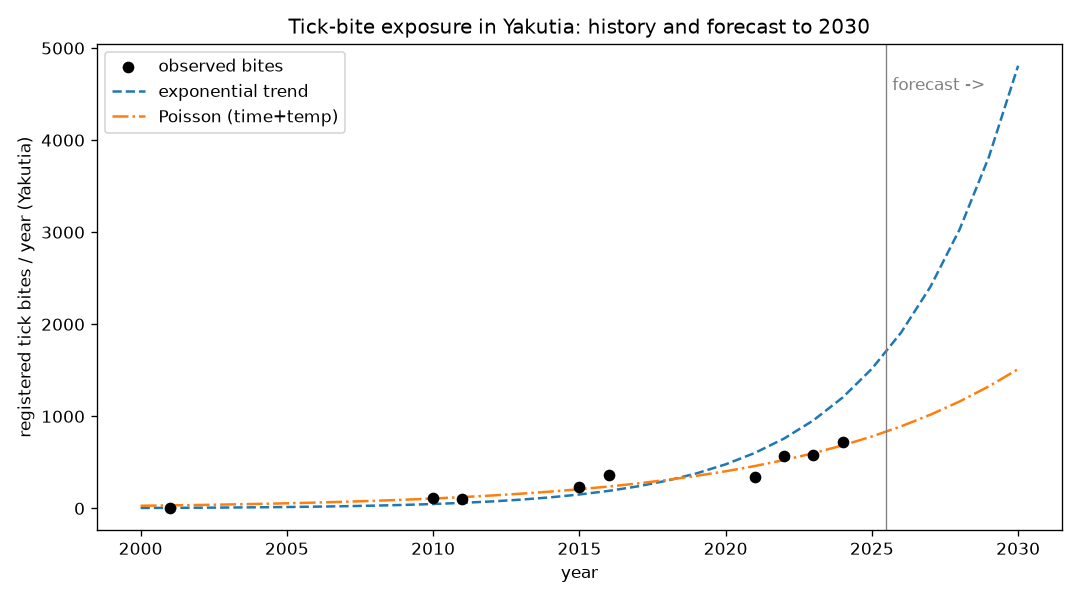
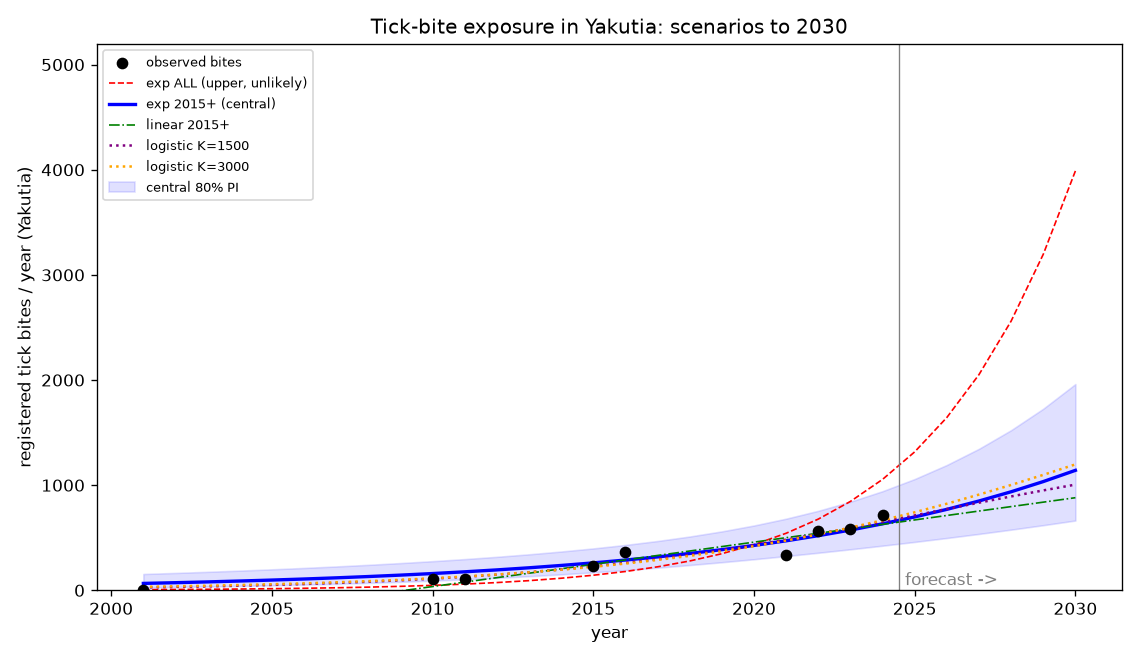
Fix forecast: remove collinear temp GLM, separate growth regimes, add scenarios
Critical corrections after review:
- The previous Poisson "with temperature" was invalid: temp_anomaly_modeled_c is
  a linear function of t_index (0.06*t), so it is perfectly collinear with the
  time trend and cannot identify a temperature effect. Removed.
- The exponential-on-all-data (~4800/yr by 2030) extrapolated the early
  colonization spike (2->109) and overstated the future. Now split into an
  established-growth fit (2015+, ~+10%/yr) plus saturating logistic scenarios.
- forecast_model.py rewritten as scenario bracketing with an 80% prediction
  interval. 2030 central ~1140 bites/yr [660-1960]; plausible 700-2000;
  ~3990 kept only as an explicit unlikely upper bound.
- README forecast section and plot updated accordingly.

Claude-Session: https://claude.ai/code/session_01Euhj2T9aukNUPxMg9C63Rc

Changed region(s): [[0.0, 0.03, 1.0, 0.99], [0.825, 0.12, 0.8861, 0.15], [0.8861, 0.36, 0.9167, 0.39]]

diff --git a/data/tick-borne-encephalitis-yakutia/forecast_model.py b/data/tick-borne-encephalitis-yakutia/forecast_model.py
@@ -1,105 +1,148 @@
 #!/usr/bin/env python3
 """
-Starter forecast model for tick spread / TBE exposure in Yakutia up to 2030.
+Forecast of tick-bite exposure in Yakutia to 2030 -- scenario approach.
 
-Target: tick_bites_registered (republic-wide registered tick bites) - used as a
-proxy for tick abundance/exposure. Confirmed TBE clinical cases are too sparse
-(0-1/year) to fit a standalone time-series model, so we forecast exposure and
-discuss disease risk as a small fraction of it (see README).
+WHY SCENARIOS, NOT ONE MODEL
+----------------------------
+We have only ~8 reliable yearly points, a metric that mixes seasons, and one
+disputed year. A single point forecast would be false precision. The dominant
+question is which growth REGIME continues:
 
-Two simple, low-data-appropriate models are fit (only ~10 reliable points):
-  1. Exponential trend in time  (log-linear OLS)
-  2. Poisson GLM with predictors: time index + modeled temperature anomaly
+  * 2001->2010 was an explosive COLONIZATION phase (2 -> 109 bites). Fitting an
+    exponential across that spike gives ~+26%/yr and ~4800 bites by 2030. This
+    almost certainly OVERSTATES the future: tick populations saturate (limited
+    suitable habitat and human exposure), and recent years already show the
+    growth decelerating (2022->2023 was nearly flat).
+  * 2015 onward reflects an ESTABLISHED population. Its growth is ~13%/yr, which
+    lands near ~1500 by 2030.
 
-Then both are extrapolated to 2030 using the predictor rows already present in
-model_ready.csv (is_forecast == 1).
+So we report a bracket and recommend the established-growth / saturating range,
+not the colonization extrapolation.
 
-Dependencies: pandas, numpy, statsmodels (optional matplotlib for the plot).
+NOTE ON TEMPERATURE: model_ready.csv's temp_anomaly_modeled_c is a deterministic
+linear function of time (0.06*t_index), so it is perfectly collinear with the
+time trend and CANNOT be used as an independent predictor. A real temperature
+EFFECT needs an observed year-by-year station series (see README "what to add").
+
+Deps: numpy, pandas; optional scipy (logistic + intervals), matplotlib (plot).
 Run: python forecast_model.py
 """
 import numpy as np
 import pandas as pd
 
 CSV = "model_ready.csv"
+HORIZON = 2030
+FORECAST_YEARS = np.arange(2025, HORIZON + 1)
 
 
-def load():
-    df = pd.read_csv(CSV)
-    return df
+def observed(df):
+    o = df.dropna(subset=["tick_bites_registered"]).copy()
+    o["tick_bites_registered"] = o["tick_bites_registered"].astype(float)
+    return o
 
 
-def fit_exponential(df):
-    """log(bites) = a + b*t  ->  bites = exp(a) * exp(b*t)."""
-    obs = df.dropna(subset=["tick_bites_registered"]).copy()
-    # exclude the 'conflicting' year-attribution point from the fit, keep for plotting
-    fit = obs[obs["target_quality"] != "conflicting"]
-    x = fit["t_index"].to_numpy(float)
-    y = np.log(fit["tick_bites_registered"].to_numpy(float))
-    b, a = np.polyfit(x, y, 1)
-    yhat = np.exp(a + b * df["t_index"].to_numpy(float))
-    doubling = np.log(2) / b
-    print(f"[Exponential] growth rate b = {b:.3f}/yr "
-          f"(~{np.exp(b) - 1:+.1%}/yr, doubling time {doubling:.1f} yr)")
-    return yhat
+def loglinear(o, label):
+    """Fit log(y)=a+b*t. Return (predict_fn, b)."""
+    t = o["t_index"].to_numpy(float)
+    y = np.log(o["tick_bites_registered"].to_numpy(float))
+    b, a = np.polyfit(t, y, 1)
+    cagr = np.exp(b) - 1
+    print(f"[{label}] n={len(o)}  growth={cagr:+.1%}/yr  doubling={np.log(2)/b:.1f}yr")
+    return (lambda tt: np.exp(a + b * np.asarray(tt, float))), a, b, t, y
 
 
-def fit_poisson(df):
-    """Poisson GLM: bites ~ t_index + temp_anomaly_modeled_c."""
+def loglinear_PI(a, b, t, y, t_new, level=0.80):
+    """80% prediction interval for a new point on the log-linear fit."""
+    n = len(t)
+    resid = y - (a + b * t)
+    s = np.sqrt(np.sum(resid**2) / (n - 2))
+    tbar, Sxx = t.mean(), np.sum((t - t.mean())**2)
+    se = s * np.sqrt(1 + 1/n + (t_new - tbar)**2 / Sxx)
     try:
-        import statsmodels.api as sm
+        from scipy.stats import t as tdist
+        crit = tdist.ppf(0.5 + level/2, n - 2)
     except ImportError:
-        print("[Poisson] statsmodels not installed - skipping")
+        crit = 1.28  # ~80% normal approx
+    center = a + b * t_new
+    return np.exp(center - crit*se), np.exp(center + crit*se)
+
+
+def logistic_fixedK(o, K):
+    """y = K/(1+exp(-r*(t-t0))) with K FIXED (a scenario ceiling assumption)."""
+    t = o["t_index"].to_numpy(float)
+    y = o["tick_bites_registered"].to_numpy(float)
+    try:
+        from scipy.optimize import curve_fit
+        f = lambda tt, r, t0: K / (1 + np.exp(-r * (tt - t0)))
+        (r, t0), _ = curve_fit(f, t, y, p0=[0.3, 20], maxfev=10000)
+        return lambda tt: K / (1 + np.exp(-r * (np.asarray(tt, float) - t0)))
+    except Exception as e:
+        print(f"  (logistic K={K} skipped: {e})")
         return None
-    obs = df.dropna(subset=["tick_bites_registered"]).copy()
-    fit = obs[obs["target_quality"] != "conflicting"]
-    X = sm.add_constant(fit[["t_index", "temp_anomaly_modeled_c"]].astype(float))
-    model = sm.GLM(fit["tick_bites_registered"].astype(float), X,
-                   family=sm.families.Poisson()).fit()
-    Xall = sm.add_constant(df[["t_index", "temp_anomaly_modeled_c"]].astype(float),
-                           has_constant="add")
-    print("\n[Poisson GLM] coefficients:")
-    print(model.params.to_string())
-    return model.predict(Xall)
 
 
 def main():
-    df = load()
-    df["exp_pred"] = fit_exponential(df)
-    poi = fit_poisson(df)
-    if poi is not None:
-        df["poisson_pred"] = poi
+    df = pd.read_csv(CSV)
+    o_all = observed(df)                       # 2001..2024 (incl disputed 2024)
+    o_rec = o_all[o_all["year"] >= 2015]       # established-population era
 
-    cols = ["year", "tick_bites_registered", "exp_pred"]
-    if "poisson_pred" in df:
-        cols.append("poisson_pred")
-    out = df[df["year"] >= 2021][cols].round(0)
-    print("\n--- Observed vs forecast (2021-2030) ---")
-    print(out.to_string(index=False))
+    print("Observed points used:")
+    print(o_all[["year", "tick_bites_registered", "target_quality"]]
+          .to_string(index=False), "\n")
 
-    horizon = df[df["year"] == 2030].iloc[0]
-    print(f"\n2030 forecast (exponential): "
-          f"~{horizon['exp_pred']:.0f} registered bites/year")
-    if "poisson_pred" in df:
-        print(f"2030 forecast (Poisson+temp): "
-              f"~{horizon['poisson_pred']:.0f} registered bites/year")
+    f_all, *_ = loglinear(o_all, "exp ALL (colonization extrapolated - UPPER)")
+    f_rec, a, b, t, y = loglinear(o_rec, "exp 2015+ (established growth - CENTRAL)")
+
+    # linear trend on recent data
+    lb, la = np.polyfit(o_rec["t_index"], o_rec["tick_bites_registered"], 1)
+    f_lin = lambda tt: la + lb * np.asarray(tt, float)
+    print(f"[linear 2015+] slope={lb:+.0f} bites/yr")
+
+    f_logL = logistic_fixedK(o_all, 1500)
+    f_logH = logistic_fixedK(o_all, 3000)
+
+    ti = (FORECAST_YEARS - 2000).astype(float)
+    table = pd.DataFrame({"year": FORECAST_YEARS})
+    table["exp_ALL_upper"] = f_all(ti).round(0)
+    table["exp_2015+_central"] = f_rec(ti).round(0)
+    table["linear_2015+"] = f_lin(ti).round(0)
+    if f_logL: table["logistic_K1500"] = f_logL(ti).round(0)
+    if f_logH: table["logistic_K3000"] = f_logH(ti).round(0)
+    lo, hi = loglinear_PI(a, b, t, y, 30.0)
+    print("\n--- Forecast scenarios ---")
+    print(table.to_string(index=False))
+
+    c = f_rec(30.0)
+    print(f"\n2030 SUMMARY")
+    print(f"  Central (established exp 2015+): ~{c:.0f} bites/yr "
+          f"[80% PI {lo:.0f}-{hi:.0f}]")
+    print(f"  Plausible range across scenarios: "
+          f"~{min(f_lin(30.0), (f_logL(30.0) if f_logL else c)):.0f}"
+          f" - ~{f_logH(30.0) if f_logH else c:.0f} bites/yr")
+    print(f"  Upper/unlikely (colonization extrapolated): ~{f_all(30.0):.0f} bites/yr")
 
     try:
-        import matplotlib
-        matplotlib.use("Agg")
+        import matplotlib; matplotlib.use("Agg")
         import matplotlib.pyplot as plt
-        plt.figure(figsize=(9, 5))
-        obs = df.dropna(subset=["tick_bites_registered"])
-        plt.scatter(obs["year"], obs["tick_bites_registered"],
-                    color="k", zorder=3, label="observed bites")
-        plt.plot(df["year"], df["exp_pred"], "--", label="exponential trend")
-        if "poisson_pred" in df:
-            plt.plot(df["year"], df["poisson_pred"], "-.",
-                     label="Poisson (time+temp)")
-        plt.axvline(2025.5, color="grey", lw=0.8)
-        plt.text(2025.7, plt.ylim()[1] * 0.9, "forecast ->", color="grey")
-        plt.xlabel("year"); plt.ylabel("registered tick bites / year (Yakutia)")
-        plt.title("Tick-bite exposure in Yakutia: history and forecast to 2030")
-        plt.legend(); plt.tight_layout()
+        yrs = np.arange(2001, HORIZON + 1); tt = (yrs - 2000).astype(float)
+        plt.figure(figsize=(9.5, 5.5))
+        plt.scatter(o_all["year"], o_all["tick_bites_registered"], color="k",
+                    zorder=5, label="observed bites")
+        plt.plot(yrs, f_all(tt), "r--", lw=1, label="exp ALL (upper, unlikely)")
+        plt.plot(yrs, f_rec(tt), "b-", lw=2, label="exp 2015+ (central)")
+        plt.plot(yrs, f_lin(tt), "g-.", lw=1, label="linear 2015+")
+        if f_logL: plt.plot(yrs, f_logL(tt), color="purple", ls=":", label="logistic K=1500")
+        if f_logH: plt.plot(yrs, f_logH(tt), color="orange", ls=":", label="logistic K=3000")
+        # 80% PI band around central
+        band_lo = [loglinear_PI(a, b, t, y, x)[0] for x in tt]
+        band_hi = [loglinear_PI(a, b, t, y, x)[1] for x in tt]
+        plt.fill_between(yrs, band_lo, band_hi, color="b", alpha=0.12,
+                         label="central 80% PI")
+        plt.axvline(2024.5, color="grey", lw=0.8); plt.text(2024.7, 50, "forecast ->", color="grey")
+        plt.ylim(0, 5200); plt.xlabel("year")
+        plt.ylabel("registered tick bites / year (Yakutia)")
+        plt.title("Tick-bite exposure in Yakutia: scenarios to 2030")
+        plt.legend(fontsize=8); plt.tight_layout()
         plt.savefig("forecast_to_2030.png", dpi=120)
         print("\nSaved plot -> forecast_to_2030.png")
     except ImportError:

diff --git a/data/tick-borne-encephalitis-yakutia/README.md b/data/tick-borne-encephalitis-yakutia/README.md
@@ -127,14 +127,32 @@
   «продвижения на север»): ~56.7° N на юге в 2000 → ~62.7° N (Намский, севернее
   Якутска) в 2020-х. Значения приблизительные.
 
-**Результат стартовых моделей** (`forecast_model.py`, точка 2024 со спорным годом
-исключена из обучения):
-- Экспоненциальный тренд: рост ~+26 %/год, удвоение ~3 года → **~4800** укусов/год к 2030.
-- Пуассон-GLM (время + температура): более умеренно → **~1500** укусов/год к 2030.
+**Подход — сценарный, а не одна модель.** Главный вопрос: какой *режим* роста
+продолжится. Ранняя фаза (2001→2010, 2→109 укусов) — это **колонизация**;
+экстраполировать её до 2030 неправильно (популяция клеща насыщается, рост уже
+замедлился — 2022→2023 почти плато). Поэтому опорным считается **установившийся**
+рост с 2015 г. и насыщающие сценарии, а «колонизационная» экспонента дана лишь как
+верхняя (маловероятная) граница.
 
-Вилка **1500–4800** — это честная мера неопределённости при ~10 точках. Экспонента
-завышена из-за крошечных ранних значений (2 укуса в 2001); Пуассон устойчивее.
-**Не воспринимайте точечный прогноз как факт** — приводите интервал и сценарии.
+> ⚠ **Про температуру.** `temp_anomaly_modeled_c` = 0.06 × `t_index`, т.е. это
+> линейная функция времени и **идеально коллинеарна** тренду — отдельный эффект
+> температуры по ней оценить НЕЛЬЗЯ. Нужен погодовой ряд **наблюдённых** температур
+> (см. «Что доработать»). В прежней версии Пуассон-GLM «время + температура» был
+> из-за этого фиктивным и удалён.
+
+**Результат `forecast_model.py` (прогноз на 2030, укусов/год):**
+
+| Сценарий | Темп | 2030 |
+|----------|------|------|
+| Установившийся рост, лог-линейн. 2015+ (**опорный**) | +10 %/год | **~1140** (80% интервал **660–1960**) |
+| Линейный тренд 2015+ | +42 укуса/год | ~880 |
+| Логистический, потолок K=1500 | насыщение | ~1000 |
+| Логистический, потолок K=3000 | насыщение | ~1200 |
+| Колонизация экстраполирована (верхняя, **маловероятна**) | +25 %/год | ~3990 |
+
+**Вывод:** опорная оценка на 2030 ≈ **1000–1200** укусов/год, реалистичный
+интервал с учётом неопределённости ≈ **700–2000**; ~4000 — крайний верхний
+сценарий, в который верить не стоит. Точечному числу не доверяйте — данных ~8 точек.
 
 ### Прогноз именно ЗАБОЛЕВАЕМОСТИ энцефалитом
 Подтверждённых случаев КВЭ — 0–1 в год, для отдельной временной модели данных
